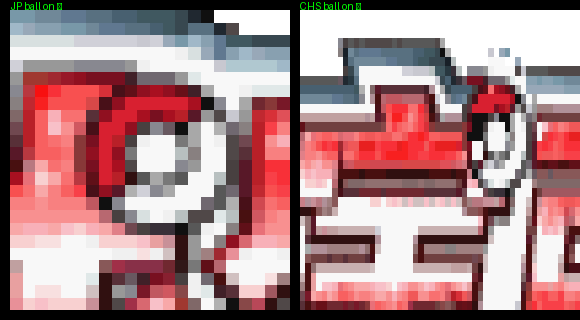
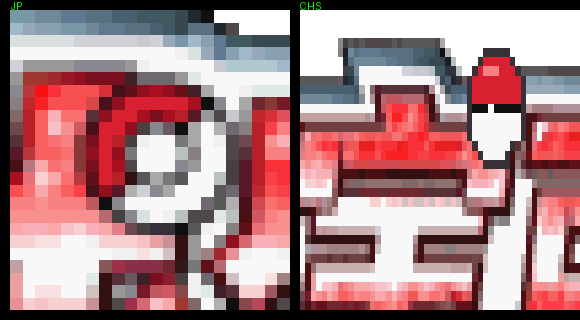
feat: ruby
1、修复hook文本失败BUG

Changed region(s): [[0.7759, 0.125, 0.931, 0.625], [0.031, 0.0, 0.1241, 0.0312], [0.5586, 0.0, 0.6207, 0.0312]]

diff --git a/configs/POKEMON_RUBY_AXVJ00/tiles/_fix_ball.py b/configs/POKEMON_RUBY_AXVJ00/tiles/_fix_ball.py
@@ -52,16 +52,15 @@ def make_ball(pal: list[tuple[int, int, int]]) -> Image.Image:
         ".ORRRRRRRRRO.",
         ".ORRRRRRRRRO.",
         ".ORRRRRRRRRO.",
-        ".OKKKBKKKKO.",
-        ".OWWWWWWWWO.",
-        ".OWWWWWWWWO.",
-        ".OWWWWWWWWO.",
+        ".OKKKBKKKKKO.",
+        ".OWWWWWWWWWO.",
+        ".OWWWWWWWWWO.",
+        ".OWWWWWWWWWO.",
         "..OWWWWWWO...",
         "...OWWWWO....",
         "....OOOOO....",
     ]
-    # fix row lengths to 13
-    rows = [r.ljust(13, ".")[:13] for r in rows]
+    assert all(len(r) == 13 for r in rows), [len(r) for r in rows]
     n = 13
     ball = Image.new("RGBA", (n, n), (0, 0, 0, 0))
     bp = ball.load()
@@ -81,21 +80,7 @@ def make_ball(pal: list[tuple[int, int, int]]) -> Image.Image:
                 bp[x, y] = (*white, 255)
             elif ch == "W":
                 bp[x, y] = (*white, 255)
-    # JP handakuten is slightly clockwise — rotate ~10°
-    ball = ball.rotate(-10, resample=Image.Resampling.NEAREST, expand=True)
-    # drop any opaque black leftovers from expand
-    px = ball.load()
-    w, h = ball.size
-    for y in range(h):
-        for x in range(w):
-            r, g, b, a = px[x, y]
-            if a < 10:
-                continue
-            if r + g + b < 8:
-                px[x, y] = (0, 0, 0, 0)
-    bb = ball.getbbox()
-    assert bb
-    return ball.crop(bb)
+    return ball
 
 
 def bao_bounds(chs: Image.Image) -> tuple[int, int]:
@@ -156,33 +141,57 @@ def main() -> None:
                 wb += 1
     print(f"CONFIRM ball size={ball.size} opaque={opaque} redTop={rt} whiteBot={wb}")
     assert rt >= 8 and wb >= 8, "ball failed orientation — refuse paste"
+    # mid row should be mostly band/button, not a red field
+    mid = bh // 2
+    mid_red = sum(
+        1
+        for x in range(bw)
+        if px[x, mid][3] >= 10 and px[x, mid][0] > 150 and px[x, mid][0] > px[x, mid][1] + 30
+    )
+    print("mid-row red px", mid_red)
+    assert mid_red <= 3, "ball band not horizontal — refuse paste"
     # no opaque black corners
     corners = [(0, 0), (bw - 1, 0), (0, bh - 1), (bw - 1, bh - 1)]
     for x, y in corners:
         assert px[x, y][3] < 10, f"opaque corner at {x},{y} — refuse paste"
+    # print ASCII for log
+    def cell(r, g, b, a):
+        if a < 10:
+            return "."
+        if r > 200 and g > 200 and b > 200:
+            return "W"
+        if r > 150 and r > g + 30:
+            return "R"
+        if r + g + b < 80:
+            return "K"
+        return "g"
+
+    print("ball ASCII:")
+    for y in range(bh):
+        print("".join(cell(*px[x, y]) for x in range(bw)))
     print("ball gates OK — pasting")
 
     bao_left, bao_right = bao_bounds(chs)
     print("bao", bao_left, "..", bao_right)
     cpx = chs.load()
     top0 = bb[1]
-    # rightmost opaque of 宝 upper band (include white outline)
+    # Top-right of 宝 red+outline, but stay within first glyph (don't start in 可)
     tr = []
     for y in range(top0, top0 + 16):
-        for x in range(bao_right - 8, min(chs.size[0], bao_right + 6)):
+        for x in range(bao_right - 10, bao_right + 1):
             if cpx[x, y][3] >= 10:
                 tr.append((x, y))
     max_x = max(x for x, _y in tr)
     min_y = min(y for x, y in tr if x >= max_x - 4)
     print("TR tip", max_x, min_y)
 
-    # sit on top-right shoulder like JP handakuten (overlap outline)
-    place_x = max_x - bw + 2
-    place_y = max(0, min_y - 1)
-    bao_mid = (bao_left + bao_right) // 2
-    # force right third of 宝
+    # Red roof fill of 宝 is ~y=18..23; white outline is y=16..17.
+    # Place so ball white-bottom (rows 7..11) sits on RED, not white outline.
+    place_x = bao_right - bw + 5
+    place_y = 11
     place_x = max(place_x, bao_left + 2 * (bao_right - bao_left) // 3)
-    print("place", place_x, place_y)
+    place_x = min(place_x, bao_right - 4)
+    print("place", place_x, place_y, "cx", place_x + bw // 2, "whiteBotY", place_y + 9)
 
     out = chs.copy()
     out.alpha_composite(ball, (place_x, place_y))

diff --git a/src/meowth/translate_plan.py b/src/meowth/translate_plan.py
@@ -108,17 +108,11 @@ def module_allows_relocate(game_id: str, module_id: str | None) -> bool:
 def module_allows_hook(game_id: str, module_id: str | None) -> bool:
     """该模块是否允许 type=hook（生成 pointer_redirect.asm）。
 
-    默认 false；仅 modules.json 显式 ``hook: true``。
-    定长表类型始终不允许（与 relocate 相同）。
+    默认 false；仅配置显式 ``hook: true`` 时允许。
+    与 relocate 解耦：``stride_ptr`` 等可 ``relocate: false`` 且 ``hook: true``
+    （性格名走 armips 改指针表，不走 Python relocate）。
     """
     meta = _module_meta(game_id, module_id)
-    try:
-        from .modules import module_type
-
-        if module_type(game_id, module_id) in NO_RELOCATE_TYPES:
-            return False
-    except Exception:
-        pass
     return bool(meta.get("hook"))
 
 
